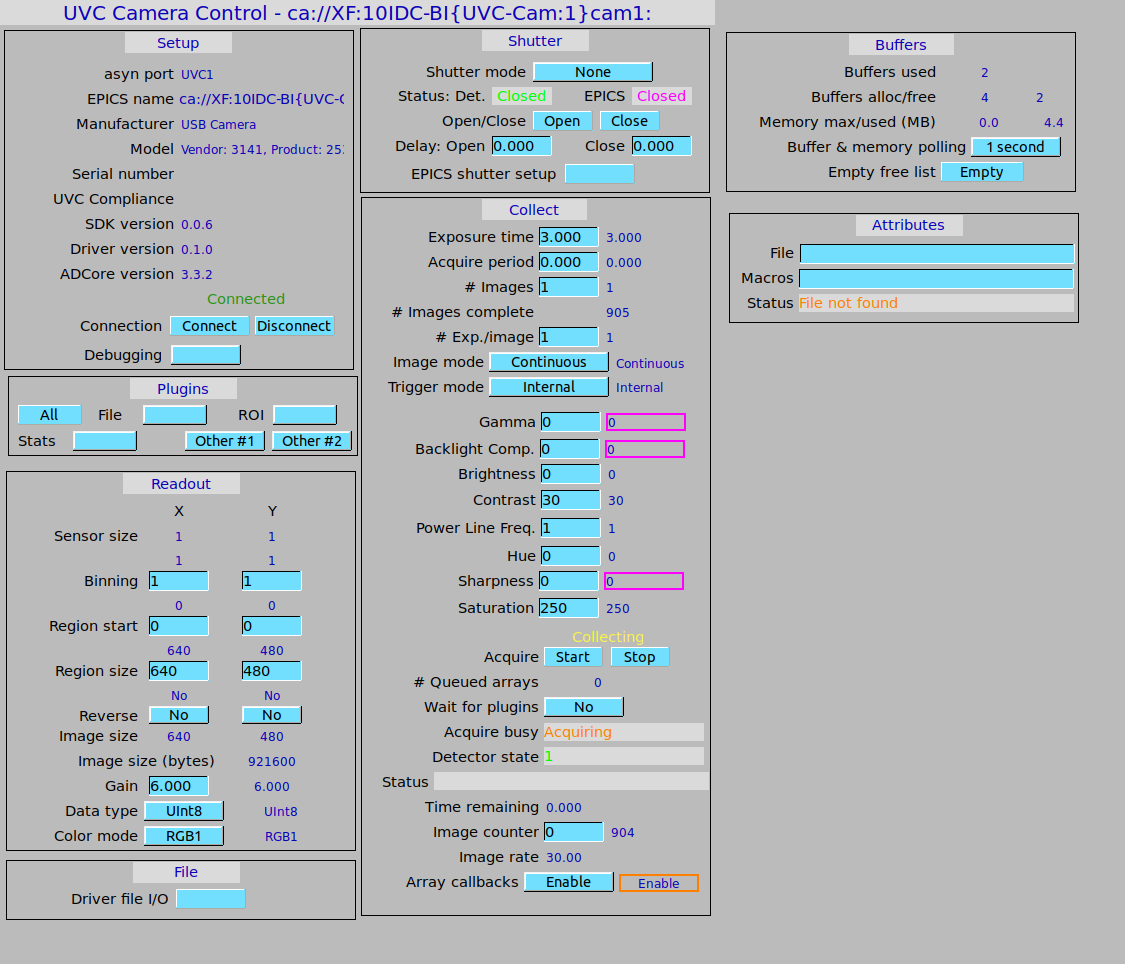
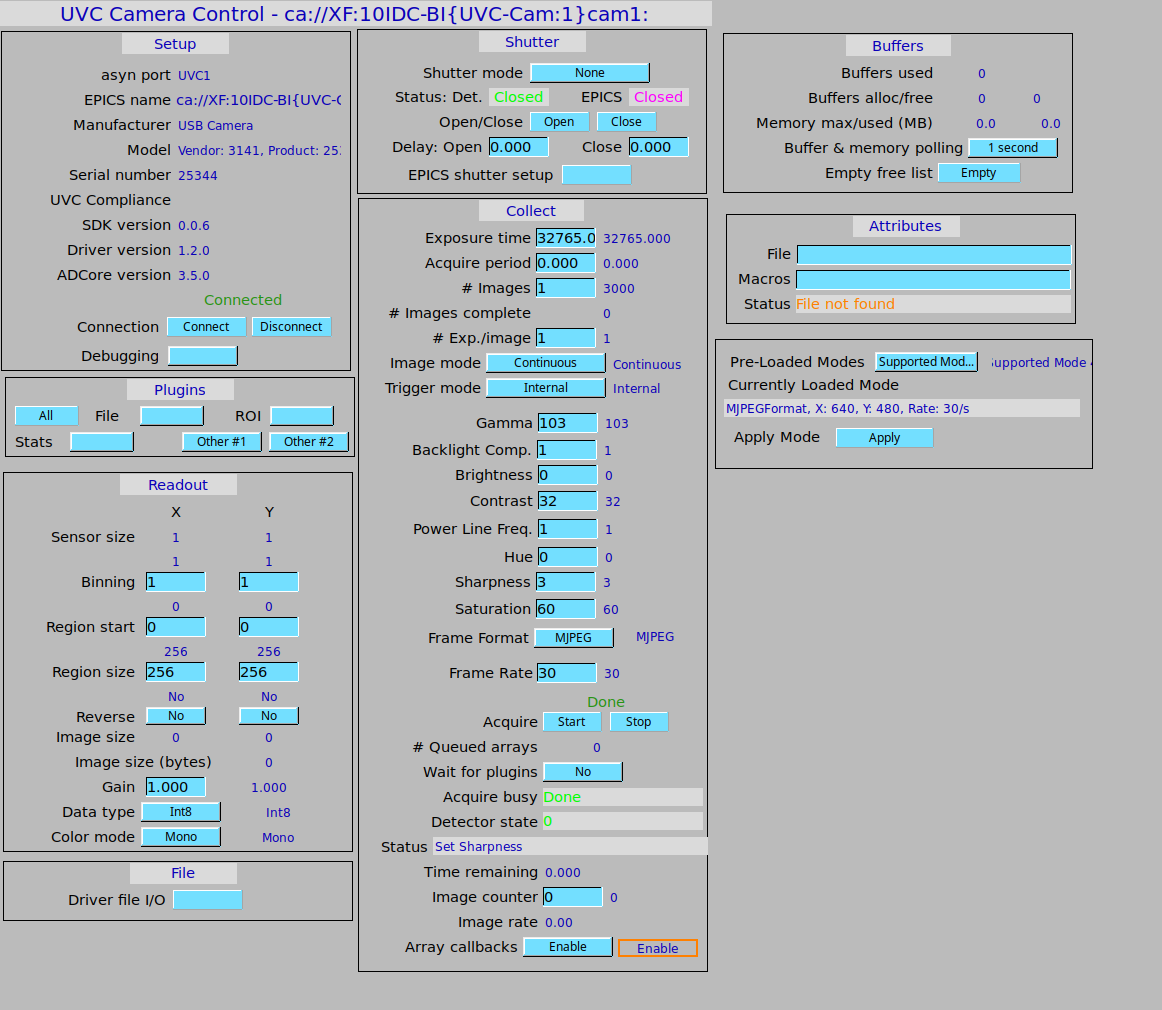
Doc edits for R1-2

Changed region(s): [[0.0, 0.0, 0.9644, 0.9647], [0.9022, 0.0311, 0.9333, 0.0622]]

diff --git a/docs/index.html b/docs/index.html
@@ -49,8 +49,10 @@
         Once the driver is installed, you may start the ioc by entering the IOC folder and running 'sudo ./startEPICS.sh'. Sudo access is important
         because access to UVC devices is limited to users with root permissions. You may then integrate ADUVC into your area detector screen setup.
         Below is an image of the ADUVC base control screen. It extends the standard ADBase screen with UVC controls for various camera functionality,
-        such as brightness, exposure, backlight compenstation, saturation, etc. Currently the driver only supports 8-bit RGB images (most UVC cameras
-        only allow for this anyway), but support for more formats is planned in R1-1.
+        such as brightness, exposure, backlight compenstation, saturation, etc. The driver supports a variety of UVC formats, though the two that are used
+        the most often are MJPEG and Uncompressed. Because acquisition modes are locked down in most UVC cameras, as of R1-2 there has been added a section
+        to the screen that allows for selecting from up to the 7 most useful acquisition modes supported by the camera. If the camera has fewer than 7 modes,
+        the remaining ones will show as Unused.
     </p>
     <img src="assets/ADUVCBase.png" alt="ADUVC base screen" />
     <p class="text-section-local">The ADUVC Base screen. Based on the ADBase screen with added controls specific to ADUVC.</p>
@@ -60,7 +62,7 @@
     <!--RELEASE START-->
 
 <h1>Release Notes</h1>
-<h4>R1-2 (???-June-2019)</h4>
+<h4>R1-2 (11-June-2019)</h4>
 <ul>
 <li>
 <p>Key detector features implemented:</p>
@@ -165,7 +167,7 @@
     <hr />
     <h4>Issues and pull requests:</h4>
     <p class="text-section-local">
-        To submit an issue or a pull request for ADUVC, please do so at the source fork on <a href = "https://github.com/jwlodek/ADUVC">Github</a>.
+        To submit an issue or a pull request for ADUVC, please do so at the source fork on <a href = "https://github.com/epicsNSLS2-areaDetector/ADUVC">Github</a>.
     </p>
     <h4>Important links:</h4>
     <ul>

diff --git a/README.md b/README.md
@@ -61,7 +61,7 @@ sudo ./startEPICS.sh
 
 Note that running as sudo is not required if connecting via product ID.
 
-Further documentation is available at https://jwlodek.github.io/ADUVC  
+Further documentation, including CSS screenshots and usage information, is available at the driver's [website](https://jwlodek.github.io/ADUVC).
 
 ### Possible use cases
 

diff --git a/RELEASE.md b/RELEASE.md
@@ -8,7 +8,7 @@ ADUVC requires libusb, libuvc, epics-base, epics-modules, ADCore, and ADSupport.
 Release Notes
 =============
 
-R1-2 (???-June-2019)
+R1-2 (11-June-2019)
 -----
 * Key detector features implemented:
     * Camera modes now read into structs at startup
